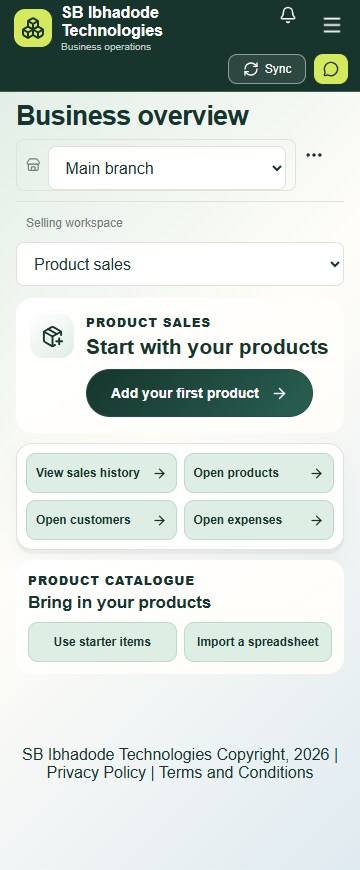
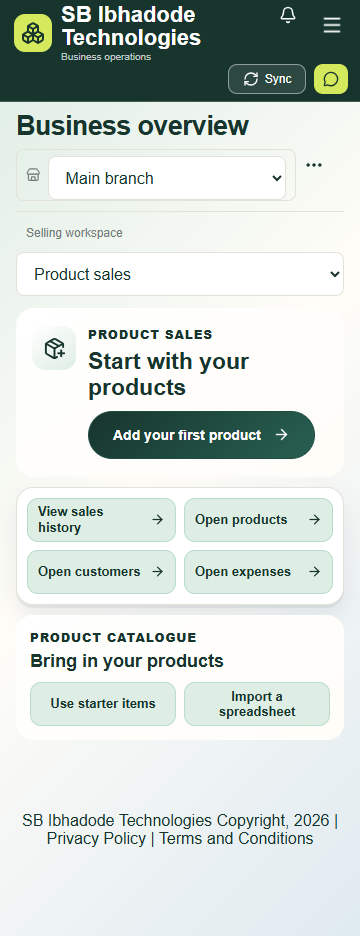
Mobile header and business name improved in second screen refactor

diff --git a/src/operational.css b/src/operational.css
@@ -312,13 +312,15 @@
 
 /* Phone composition for the Overview; leave desktop and tablet layouts unchanged. */
 @media screen and (max-width:600px) {
-  .app-shell { --mobile-app-header-height:calc(92px + env(safe-area-inset-top,0px)); }
+  .app-shell { --mobile-app-header-height:calc(102px + env(safe-area-inset-top,0px)); }
   .app-shell .mobile-app-header { padding:calc(env(safe-area-inset-top,0px) + 4px) 12px 4px; }
-  .app-shell .mobile-app-topline,.app-shell .mobile-app-brand { height:48px; }
+  .app-shell .mobile-app-topline,.app-shell .mobile-app-brand { height:58px; }
+  .app-shell .mobile-app-brand { overflow:visible; }
+  .app-shell .mobile-app-brand-copy { overflow:visible; transform:translateY(20px); }
   .app-shell .mobile-app-brand { max-width:calc(100% - 100px); gap:9px; }
   .app-shell .mobile-app-brand .brand-mark { flex-basis:38px; width:38px; height:38px; border-radius:11px; }
   .app-shell .mobile-app-brand .brand-mark svg { width:24px; height:24px; }
-  .app-shell .mobile-app-brand strong { display:-webkit-box; max-width:175px; overflow:hidden; font-size:16px; line-height:1.1; white-space:normal; overflow-wrap:normal; word-break:normal; text-overflow:clip; -webkit-line-clamp:2; -webkit-box-orient:vertical; }
+  .app-shell .mobile-app-brand strong { display:-webkit-box; max-width:195px; overflow:hidden; font-size:22px; line-height:1.02; white-space:normal; overflow-wrap:normal; word-break:normal; text-overflow:clip; -webkit-line-clamp:2; -webkit-box-orient:vertical; }
   .app-shell .mobile-app-brand span { display:block; font-size:10px; line-height:1.1; }
   .app-shell .mobile-app-header .notification-center { top:calc(env(safe-area-inset-top,0px) + 5px); right:57px; }
   .app-shell .mobile-app-actions { height:30px; margin-top:2px; gap:8px; }
@@ -341,11 +343,12 @@
   .daily-screen .screen-picker > span { margin:0 10px 4px; font-size:12px; }
   .daily-screen .screen-picker select { min-height:44px; }
   .overview-work-area { gap:10px; }
-  .overview-main-card { min-height:0; padding:16px 14px; border-radius:17px; }
+  .overview-main-card { min-height:0; padding:18px 16px; border-color:color-mix(in srgb,var(--brand-primary) 24%,var(--line)); border-radius:18px; box-shadow:0 4px 0 color-mix(in srgb,var(--brand-primary) 14%,white),0 12px 26px #172b451a; }
+  .overview-start-options { border-color:color-mix(in srgb,var(--brand-primary) 20%,var(--line)); box-shadow:0 3px 0 color-mix(in srgb,var(--brand-primary) 10%,white),0 10px 22px #172b4515; }
   .overview-empty-state { grid-template-columns:44px minmax(0,1fr); gap:10px 12px; }
   .overview-empty-icon,.overview-today-icon { width:44px; height:44px; border-radius:13px; }
   .overview-empty-icon svg,.overview-today-icon svg { width:23px; height:23px; }
-  .overview-empty-state h2,.overview-today h2 { margin-top:4px; font-size:21px; line-height:1.14; }
+  .overview-empty-state h2,.overview-today h2 { margin-top:5px; font-size:23px; line-height:1.14; }
   .overview-empty-state p { display:none; }
   .overview-empty-state .overview-start-button { grid-column:2; width:auto; justify-self:start; }
   .overview-start-button { min-height:44px; padding:10px 17px; border-radius:13px; font-size:14px; }
@@ -358,12 +361,12 @@
   .overview-stat-grid strong { font-size:20px; }
   .overview-today .overview-start-button { min-height:46px; justify-self:start; }
   .overview-side-panels { gap:10px; }
-  .overview-shortcuts { grid-template-columns:repeat(2,minmax(0,1fr)); gap:7px; padding:9px; border-radius:16px; }
-  .overview-shortcuts .filter-button { min-height:40px; justify-content:space-between; gap:5px; padding:8px 9px; border-radius:10px; font-size:12px; line-height:1.2; text-align:left; }
+  .overview-shortcuts { grid-template-columns:repeat(2,minmax(0,1fr)); gap:8px; padding:10px; border-radius:17px; box-shadow:0 3px 0 #172b4510,0 12px 24px #172b4517; }
+  .overview-shortcuts .filter-button { min-height:44px; justify-content:space-between; gap:5px; padding:9px 10px; border-radius:11px; font-size:13px; line-height:1.2; text-align:left; }
   .overview-shortcuts .filter-button svg { flex:0 0 auto; width:15px; height:15px; }
-  .overview-start-options { padding:12px; border-radius:16px; }
-  .overview-start-options h2 { margin-top:4px; font-size:17px; }
+  .overview-start-options { padding:14px; border-radius:17px; }
+  .overview-start-options h2 { margin-top:5px; font-size:18px; }
   .overview-start-options p { display:none; }
-  .overview-start-options > div { grid-template-columns:repeat(2,minmax(0,1fr)); gap:7px; margin-top:9px; }
-  .overview-start-options .filter-button { min-height:40px; justify-content:center; padding:7px 8px; border-radius:10px; font-size:12px; line-height:1.2; text-align:center; }
+  .overview-start-options > div { grid-template-columns:repeat(2,minmax(0,1fr)); gap:8px; margin-top:10px; }
+  .overview-start-options .filter-button { min-height:44px; justify-content:center; padding:8px 9px; border-radius:11px; font-size:13px; line-height:1.2; text-align:center; }
 }
